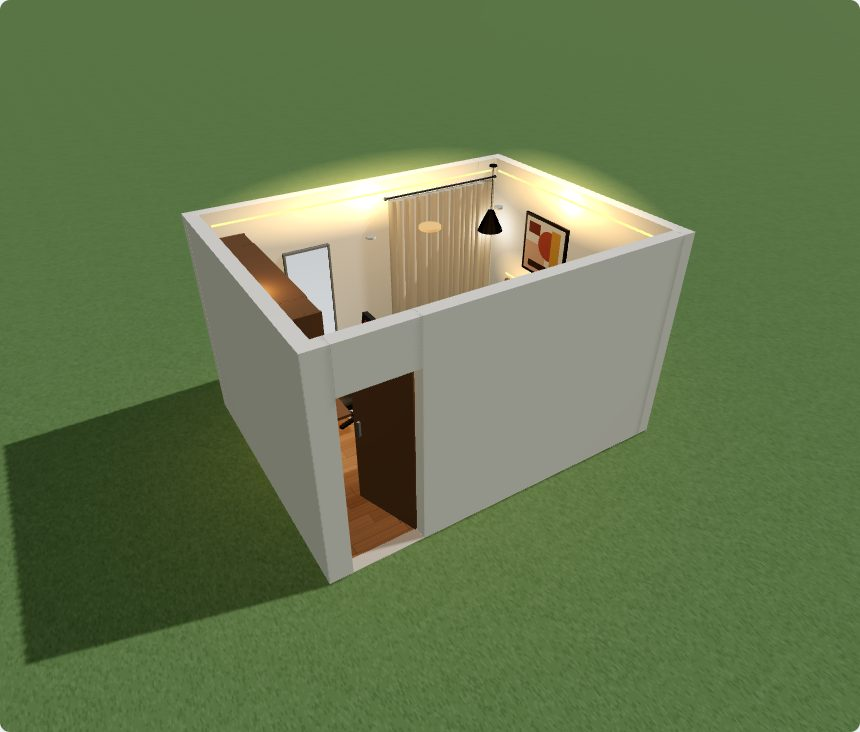
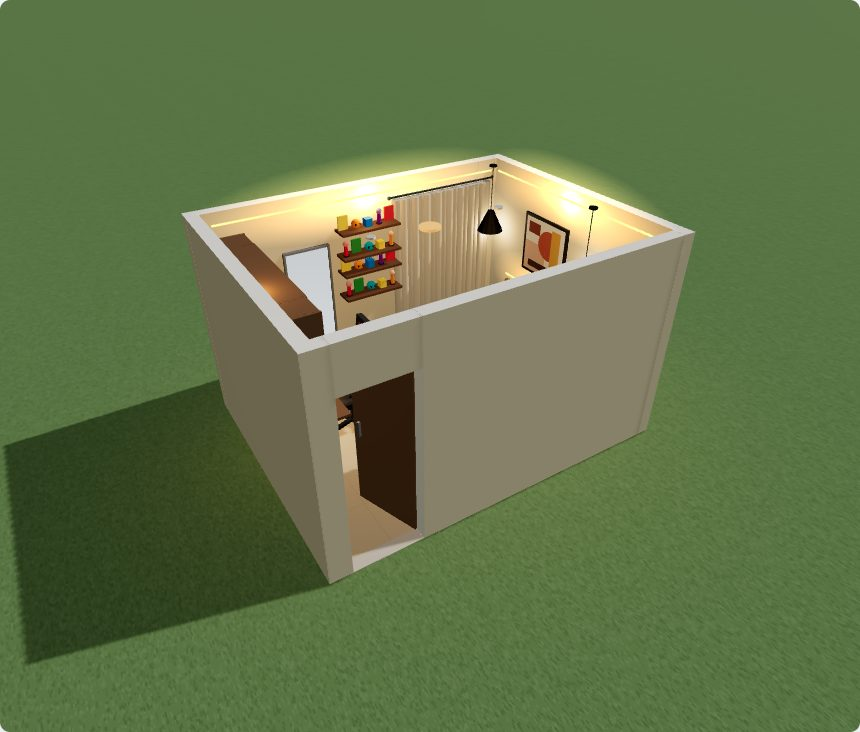
feat: floor colour for a room's finish (Propiedades → Color del piso, tints the texture to that colour); Brandon Cuarto — sand porcelain floor and sand walls, wardrobe beside the door, a nightstand and pendant each side of the bed, low chest of drawers at its foot, two shelves on the back wall, prin
Claude-Session: https://claude.ai/code/session_01AFnSiYVaDU1pMPqiY52pPf

Changed region(s): [[0.2116, 0.2104, 0.8163, 0.8115]]

diff --git a/src/view3d/FloorMeshes.tsx b/src/view3d/FloorMeshes.tsx
@@ -212,7 +212,7 @@ function RoomSlab({ room, walls, selected, floorHeight, ground }: { room: Room; 
   if (room.kind === 'roof' && room.floorMaterial) {
     // A solid roof: an opaque slab with its finish on top and a fascia of its own colour, hanging down from the
     // same top level as the light sheet below.
-    const materials = [floorSurfaceMaterial(room.floorMaterial), plainMaterial(room.edgeColor ?? '#e8ebef', 0.8)];
+    const materials = [floorSurfaceMaterial(room.floorMaterial, room.floorColor), plainMaterial(room.edgeColor ?? '#e8ebef', 0.8)];
     return (
       <group>
         <mesh geometry={geometry} material={materials} rotation={[Math.PI / 2, 0, 0]} position={[0, (room.height ?? floorHeight) + 0.06, 0]} castShadow receiveShadow />
@@ -236,7 +236,7 @@ function RoomSlab({ room, walls, selected, floorHeight, ground }: { room: Room; 
   // lot) does not flicker against it (z-fighting).
   const y = room.kind === 'exterior' ? -0.012 : 0.001;
   // The slab's top UVs are plan coordinates in metres, so floor textures keep their real size.
-  const surface = room.floorMaterial ? floorSurfaceMaterial(room.floorMaterial) : null;
+  const surface = room.floorMaterial ? floorSurfaceMaterial(room.floorMaterial, room.floorColor) : null;
   return (
     <group>
       {/* Shape is in plan XY; +90° about X maps plan y to world z and extrudes downwards. */}

diff --git a/src/materials/MaterialPanels.tsx b/src/materials/MaterialPanels.tsx
@@ -1,6 +1,6 @@
 // "Acabados" for walls and "Piso" / "Baranda" for rooms, shown in the properties panel.
 import { useEffect, useId, useState } from 'react';
-import { applySideToFacade, setFloorMaterial, setRailing, setRailingColor, setWallSide } from '../model/materialOps';
+import { applySideToFacade, setFloorColor, setFloorMaterial, setRailing, setRailingColor, setWallSide } from '../model/materialOps';
 import type { Floor, FloorMaterial, Project, RailingType, Room, Wall, WallFinish, WallSide } from '../model/types';
 import { useEditor } from '../store/editorStore';
 import SegmentedSwitch from '../ui/SegmentedSwitch';
@@ -147,6 +147,16 @@ export function RoomMaterials({ room }: { room: Room }) {
           onChange={(m) => edit((d, f) => setFloorMaterial(d, f, room.id, m))}
         />
       </div>
+      {room.floorMaterial && (
+        <div className="field">
+          <span className="label">Color del piso</span>
+          <ColorPicker
+            label="Color del piso"
+            value={room.floorColor ?? FLOOR_MATERIALS[room.floorMaterial].chip}
+            onPick={(c) => edit((d, f) => void setFloorColor(d, f, room.id, c))}
+          />
+        </div>
+      )}
       {room.kind === 'balcony' && (
         <>
           <div className="field">

diff --git a/src/materials/library.ts b/src/materials/library.ts
@@ -63,9 +63,17 @@ export function wallFaceMaterial(finish: WallFinish, color: string): MeshStandar
 }
 
 /** A floor slab; the slab's UVs are plan coordinates in metres. */
-export function floorSurfaceMaterial(m: FloorMaterial): MeshStandardMaterial {
-  return cached(`floor|${m}`, () => new MeshStandardMaterial({
-    color: '#ffffff',
+/** Per-channel multiplier (as a colour) that turns `base` into `target`, capped at white. */
+function tintTowards(base: string, target: string): string {
+  const ch = (h: string, i: number) => parseInt(h.slice(1 + 2 * i, 3 + 2 * i), 16);
+  return `#${[0, 1, 2].map((i) => Math.min(255, Math.round((ch(target, i) / Math.max(1, ch(base, i))) * 255)).toString(16).padStart(2, '0')).join('')}`;
+}
+
+/** `color` is how the finish should look: the texture is tinted from its own colour (chip) towards it. */
+export function floorSurfaceMaterial(m: FloorMaterial, color?: string): MeshStandardMaterial {
+  const tint = color ? tintTowards(FLOOR_MATERIALS[m].chip, color) : '#ffffff';
+  return cached(`floor|${m}|${tint}`, () => new MeshStandardMaterial({
+    color: tint,
     map: texture(`floor|${m}`, () => makeFloorTexture(m)),
     roughness: FLOOR_MATERIALS[m].roughness,
   }));

diff --git a/src/model/types.ts b/src/model/types.ts
@@ -77,6 +77,8 @@ export interface Room {
   glass?: boolean;
   /** floor finish (rooms and balconies); on a roof it makes a solid, opaque slab with that finish on top. */
   floorMaterial?: FloorMaterial;
+  /** hex colour the floor finish should look (e.g. a sand porcelain); absent = the finish's own colour. */
+  floorColor?: string;
   /** roof only: hex colour of the solid slab's edge (fascia), e.g. a wooden band seen from the street. */
   edgeColor?: string;
   /** balconies only: edges (index i = points[i] → points[i+1]) left without railing, e.g. towards a driveway. */

diff --git a/src/model/materialOps.ts b/src/model/materialOps.ts
@@ -48,6 +48,14 @@ export function setFloorMaterial(p: Project, floorId: string, roomId: string, m:
   if (r) r.floorMaterial = m;
 }
 
+export function setFloorColor(p: Project, floorId: string, roomId: string, color: string): boolean {
+  const r = roomOf(p, floorId, roomId);
+  const c = normalizeHex(color);
+  if (!r || !c) return false;
+  r.floorColor = c;
+  return true;
+}
+
 export function setRailing(p: Project, floorId: string, roomId: string, railing: RailingType): void {
   const r = roomOf(p, floorId, roomId);
   if (r) r.railing = railing;

diff --git a/src/persistence/projectFile.ts b/src/persistence/projectFile.ts
@@ -32,6 +32,7 @@ const room = z.object({
   railing: z.enum(['vidrio', 'muro', 'celosia']).optional(),
   openEdges: z.array(z.number().int().min(0)).optional(),
   railingColor: color.optional(),
+  floorColor: color.optional(),
   edgeColor: color.optional(),
 });
 const furniture = z.object({
